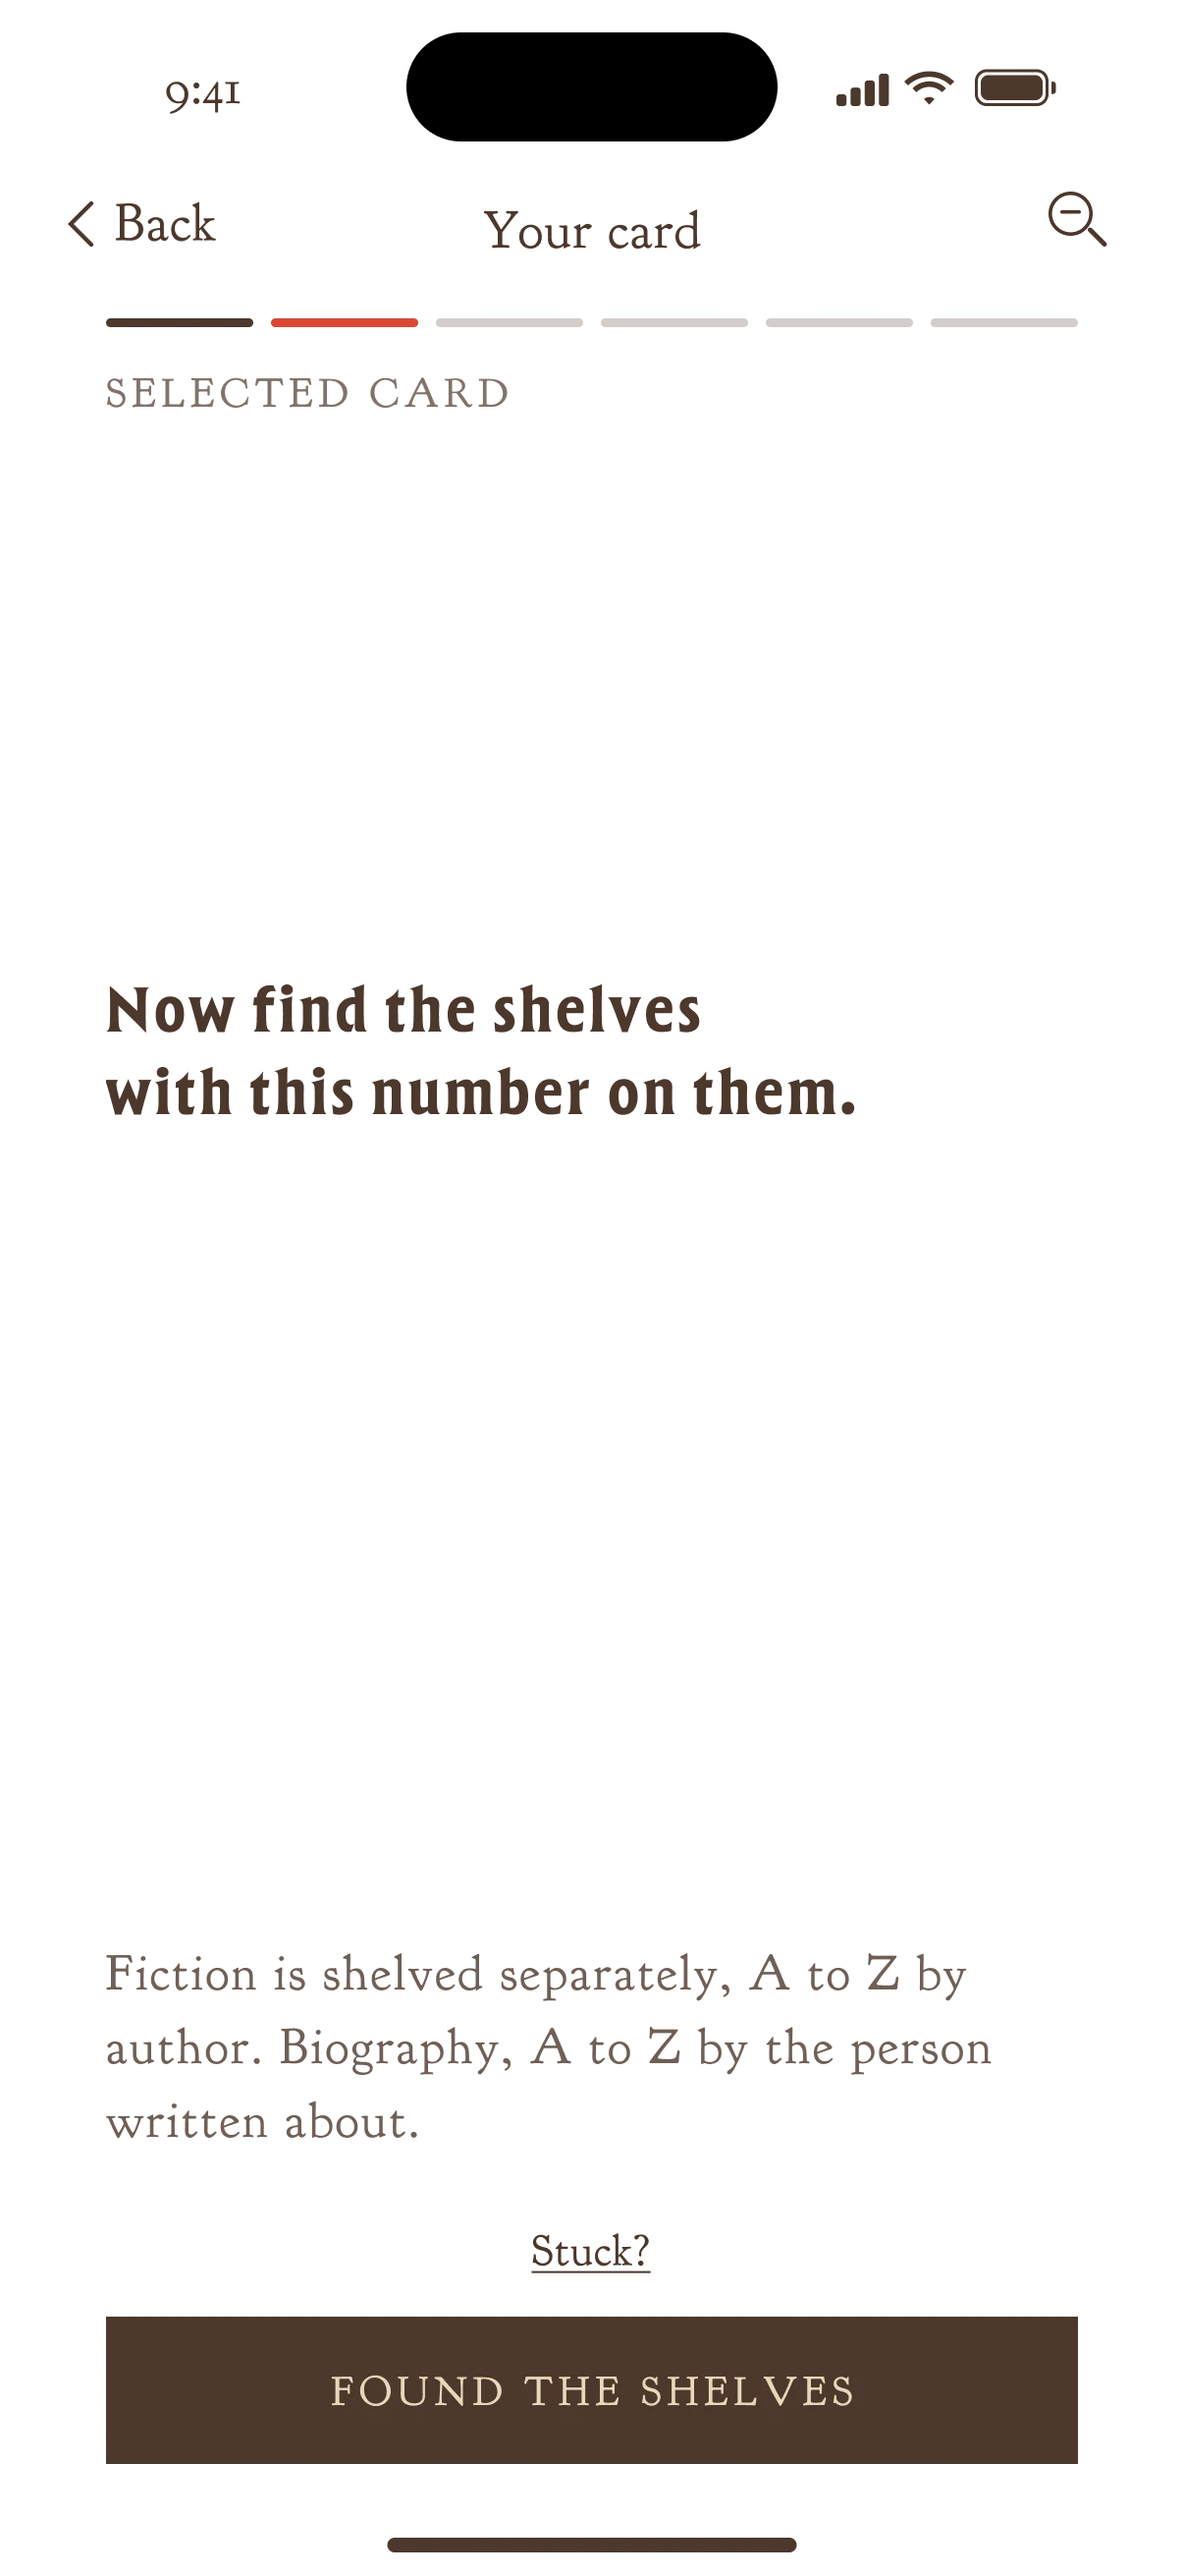
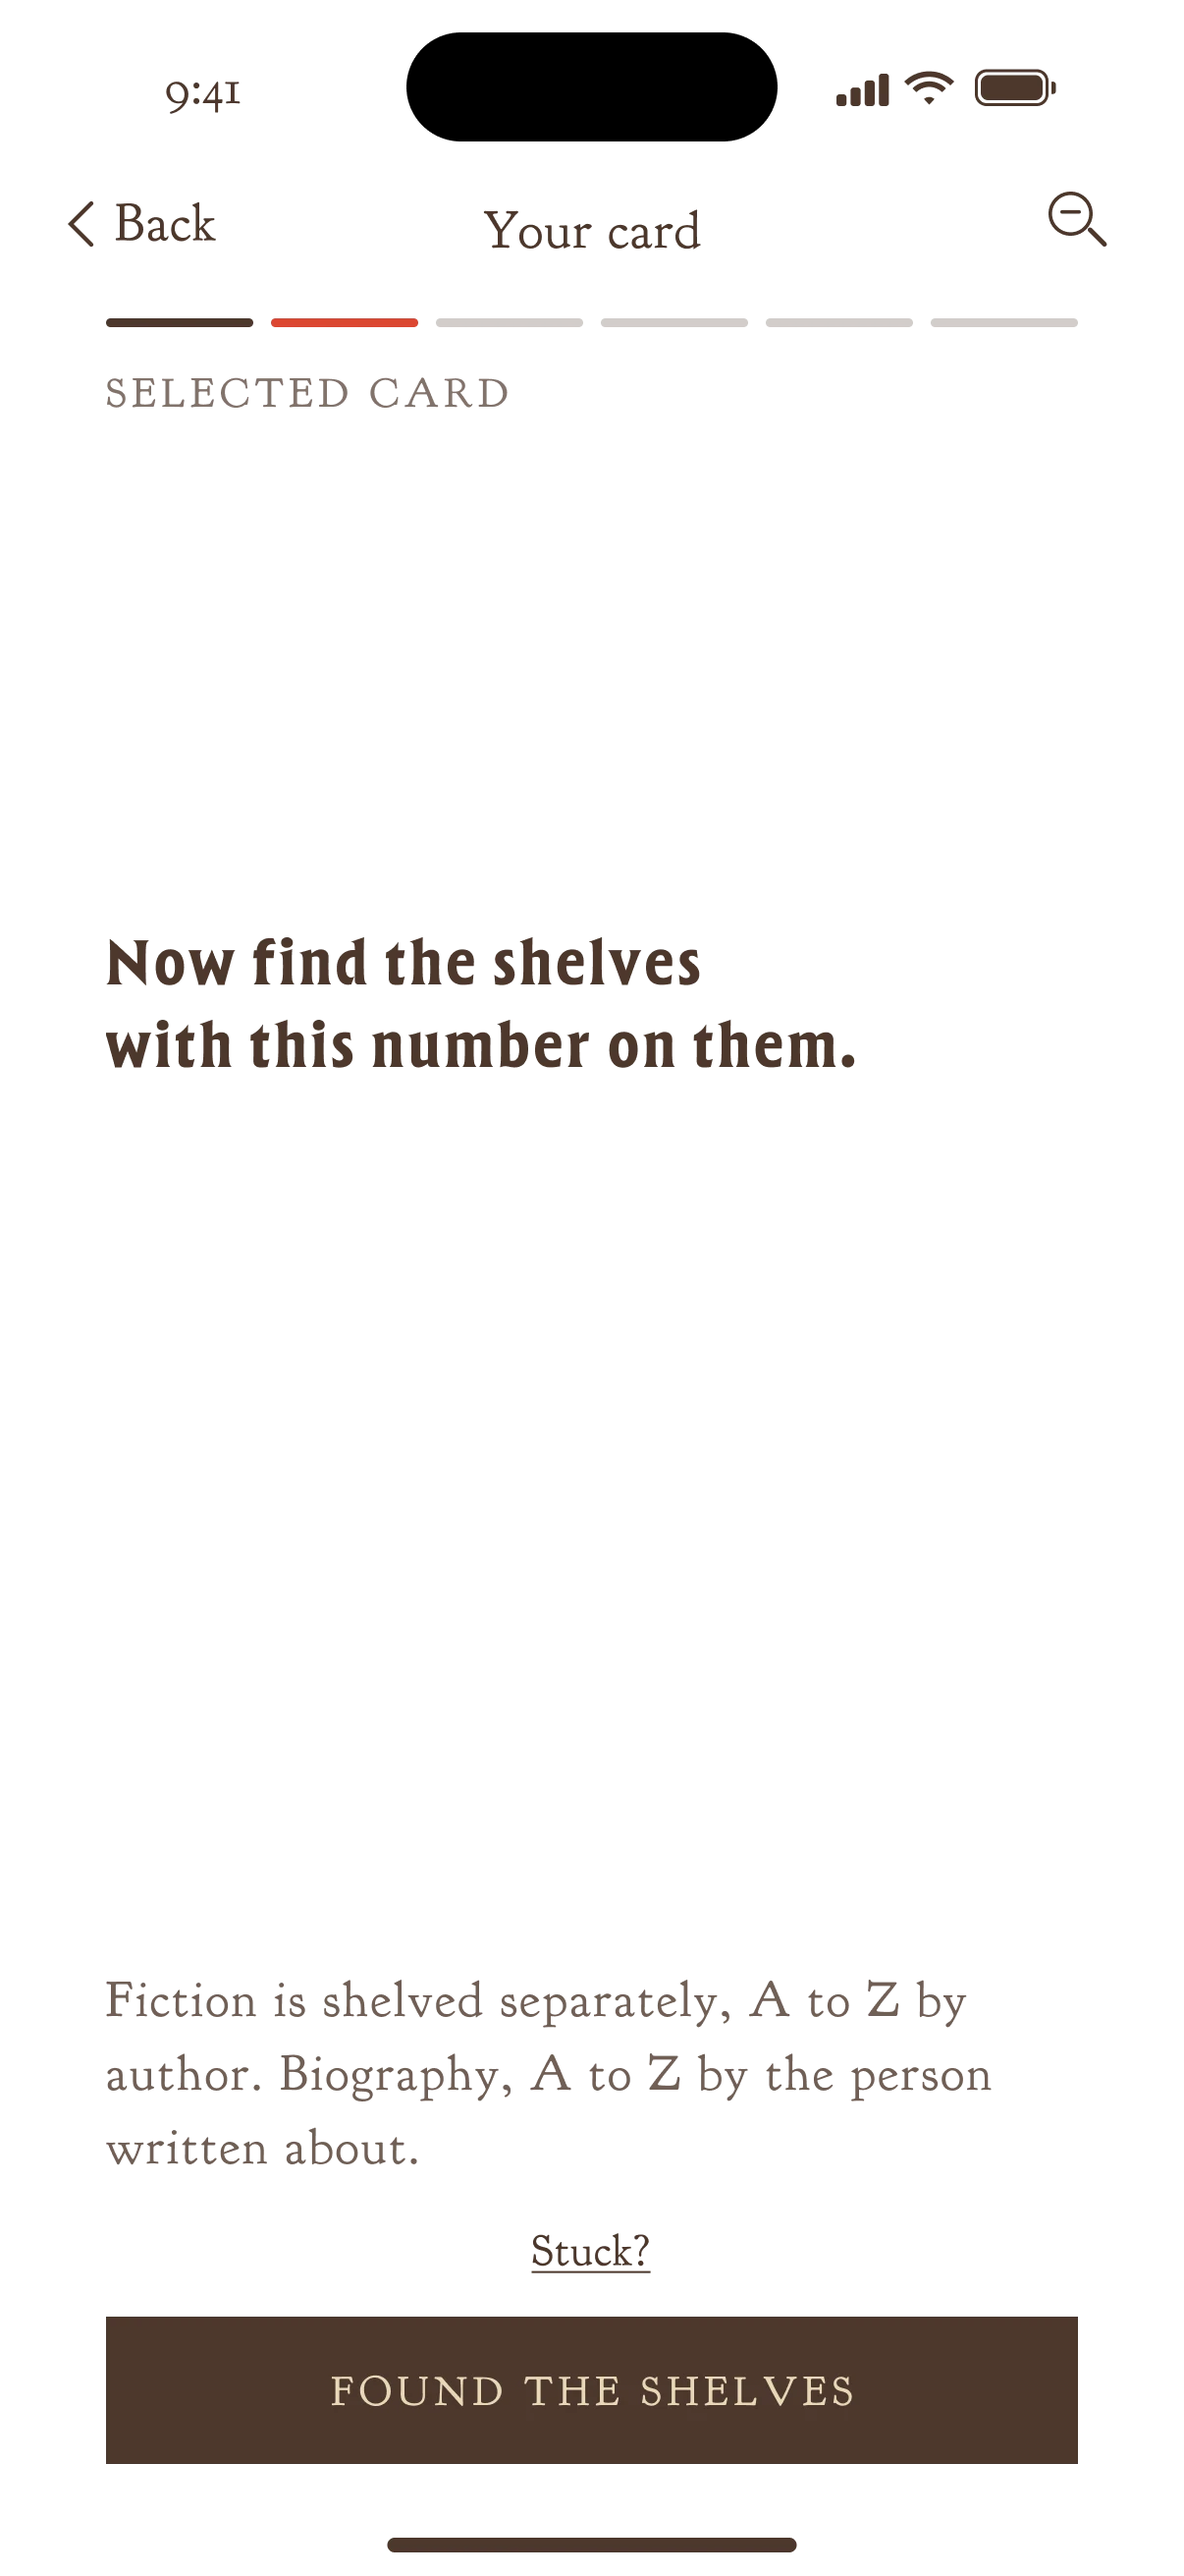
Screen 10: give the Dewey shelf its full height so the spine description no longer overlaps the hint

Changed region(s): [[0.092, 0.7414, 0.8284, 0.8341], [0.092, 0.3398, 0.7056, 0.4325]]

diff --git a/app.js b/app.js
@@ -39,7 +39,7 @@
     ['36:5055', 'U', [['35:1600', '35:1315', 0, 0]], [back(), zoom('23:3512'), cta('36:5177')]],             // 07 Walk open the drawer
     ['36:5177', 'S', [['32:875', '32:821', 36, 344]], [back(), zoom('23:3512'), cta('36:5227')]],            // 08 Q2 Social
     ['36:5227', 'S', [['31:8394', '31:8124', 36, 332]], [back(), zoom('23:3725'), dead(), cta('36:5277')]],  // 09 Go Card
-    ['36:5277', 'S', [['31:8649', '31:8605', 36, 162], ['31:9017', '31:8654', 36, 405]],
+    ['36:5277', 'S', [['31:8649', '31:8605', 36, 154], ['31:9017', '31:8654', 36, 381]],
       [back(), zoom('23:3939'), dead(746, 36), cta('36:5350')]],                                             // 10 Your card
     ['36:5350', 'U', [['35:2903', '35:1604', 0, 0]], [back(), zoom('23:3939'), cta('36:5810')]],             // 11 Walk into the stacks
     ['36:5810', 'S', [['32:1815', '32:1350', 36, 339]], [back(), zoom('23:4154'), dead(), cta('36:5937')]],  // 12 Q3 Ladder
@@ -231,8 +231,8 @@
     },
   };
 
-  // zoom-out images were re-exported (footer shortened); the tag makes phones fetch the new ones
-  const src = (file) => 'img/' + file + (file.startsWith('o-') ? '?v=2' : '');
+  // re-exported images get a tag so phones fetch the new copies
+  const src = (file) => 'img/' + file + (/^(o-|s-36-5277)/.test(file) ? '?v=2' : '');
   function img(id) {
     const [file, ox, oy, w, h] = IMG[id];
     const el = new Image();

diff --git a/index.html b/index.html
@@ -13,7 +13,7 @@
 <link rel="icon" type="image/png" sizes="192x192" href="icon-192.png">
 <meta name="description" content="MÆZE: six questions lead you from the Providence Athenæum's card catalog to one word in one book. A touch prototype by ÆEEEE.">
 <title>MÆZE</title>
-<link rel="stylesheet" href="style.css?v=20261103j">
+<link rel="stylesheet" href="style.css?v=20261103k">
 </head>
 <body>
 <main id="app" aria-label="MÆZE prototype">
@@ -22,7 +22,7 @@
   </div>
 </main>
 <div class="edge top"></div><div class="edge bottom"></div>
-<script src="assets.js?v=20261103j"></script>
-<script src="app.js?v=20261103j"></script>
+<script src="assets.js?v=20261103k"></script>
+<script src="app.js?v=20261103k"></script>
 </body>
 </html>
